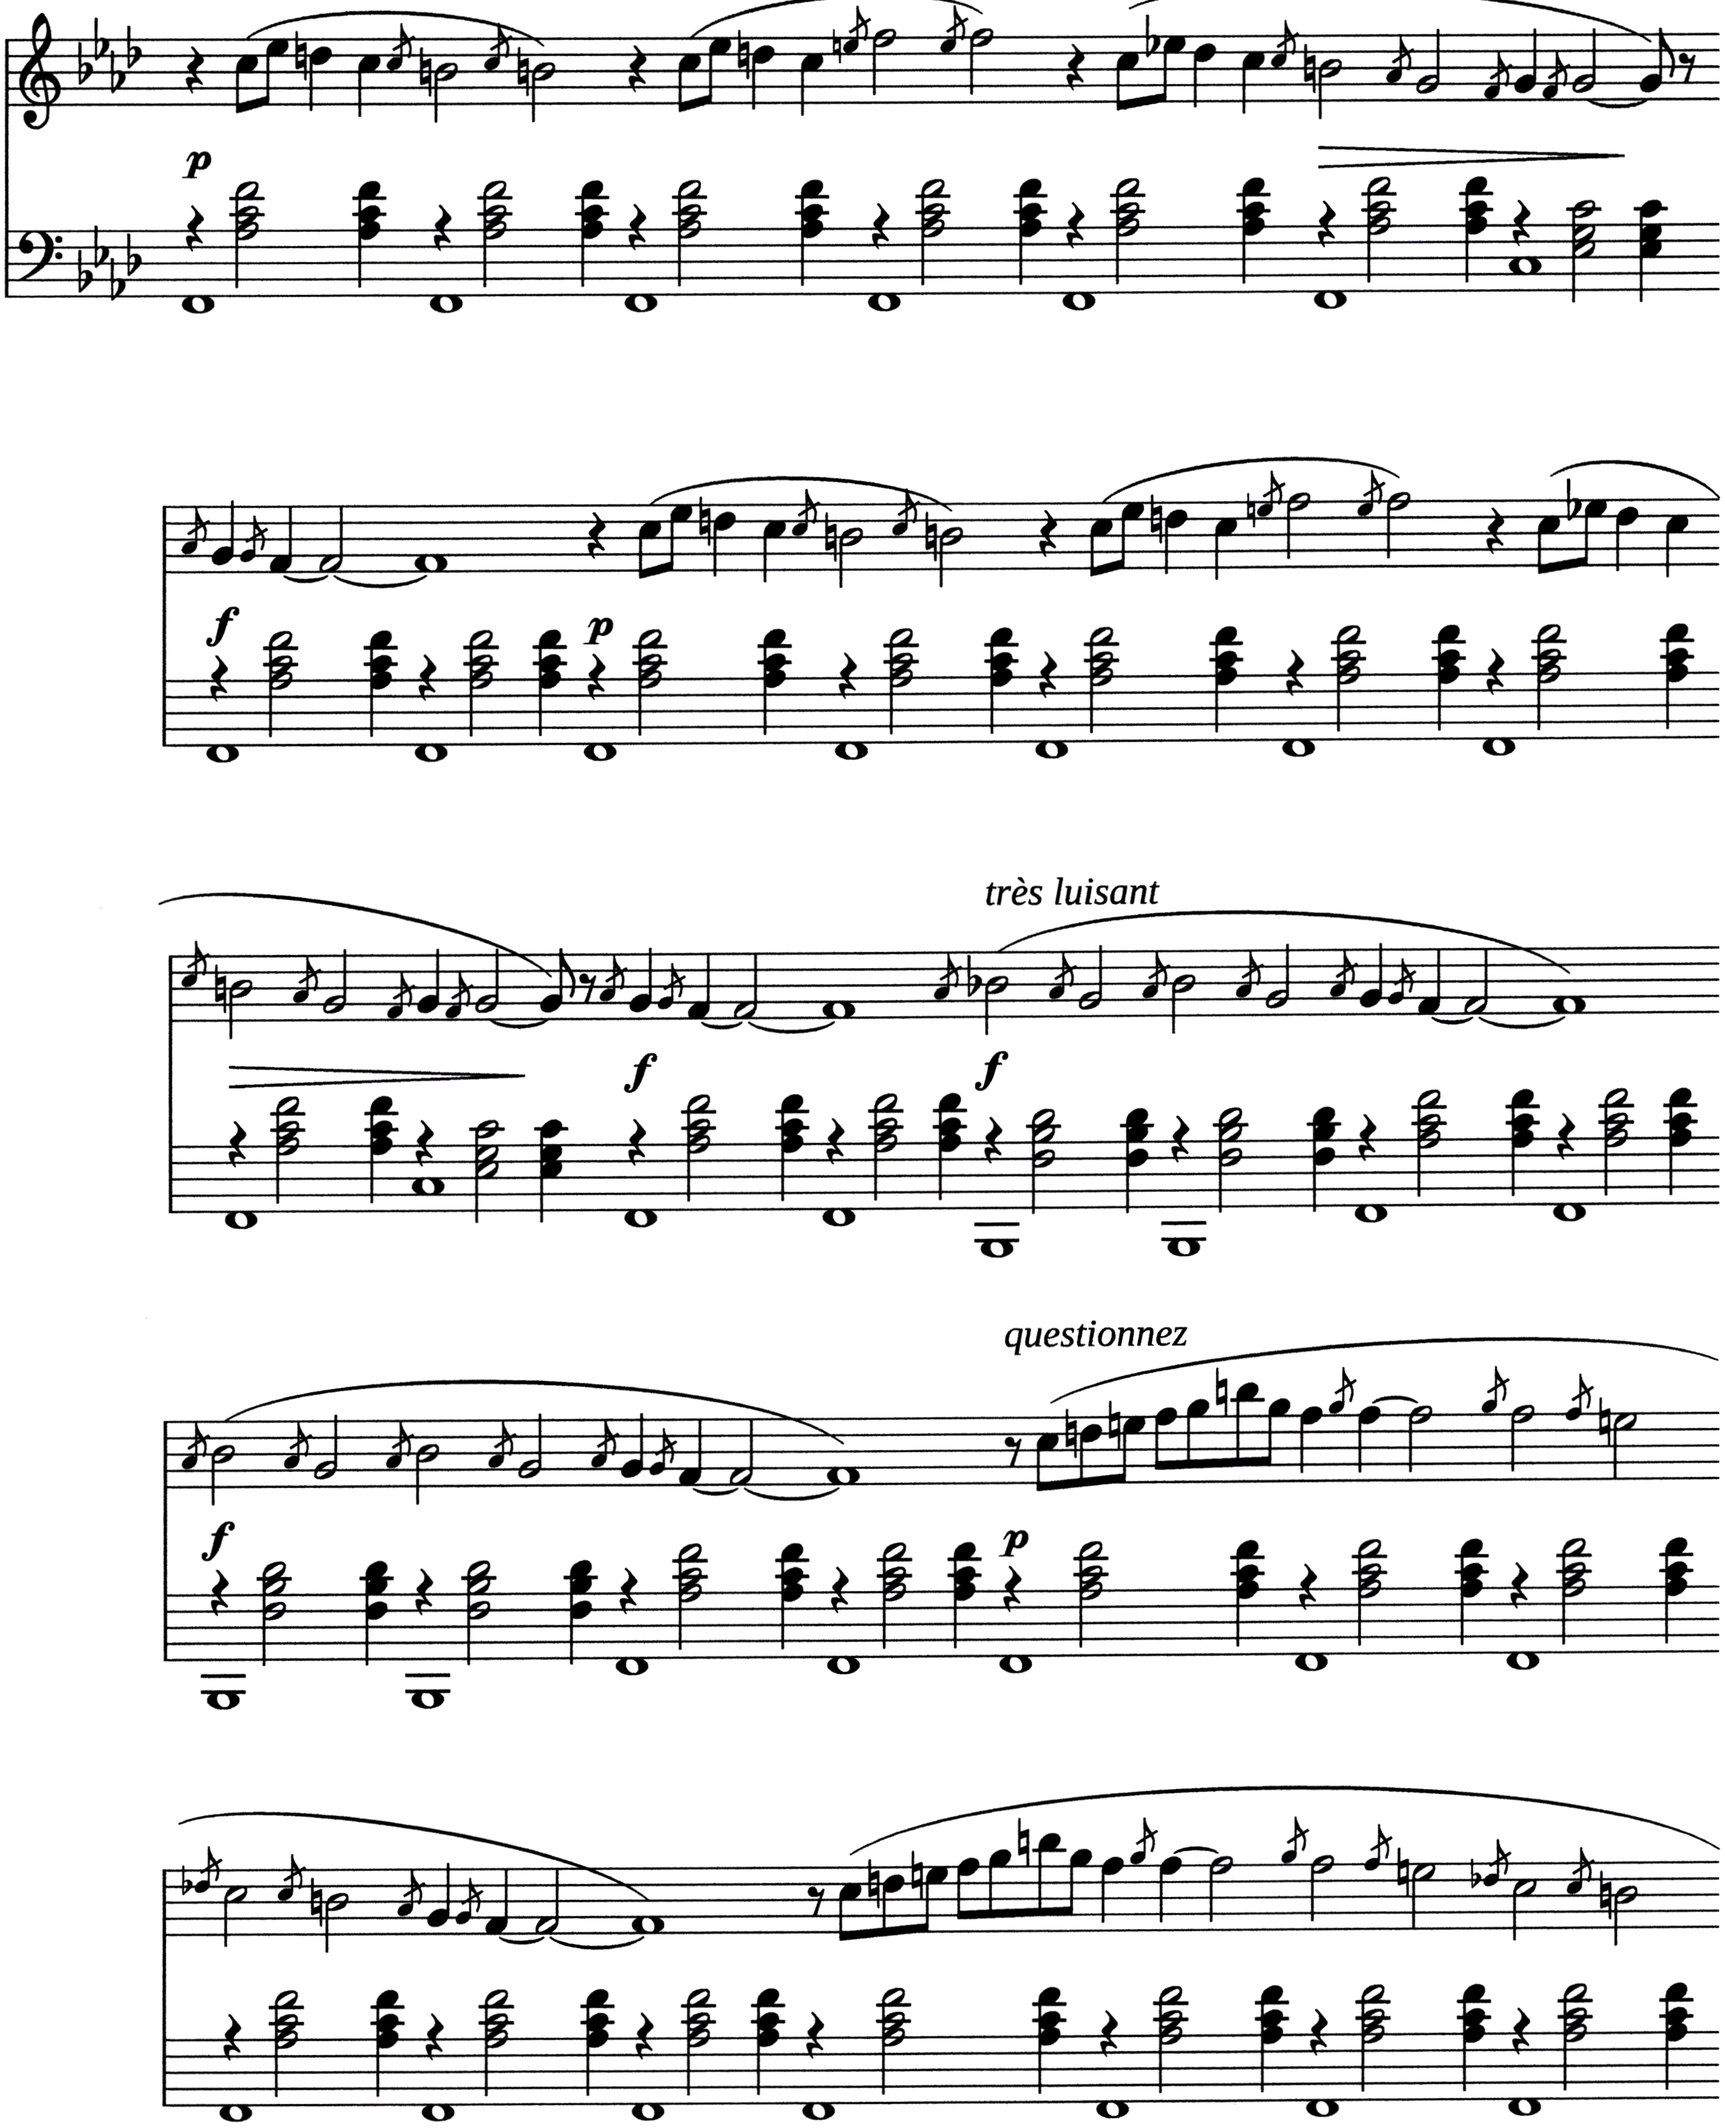
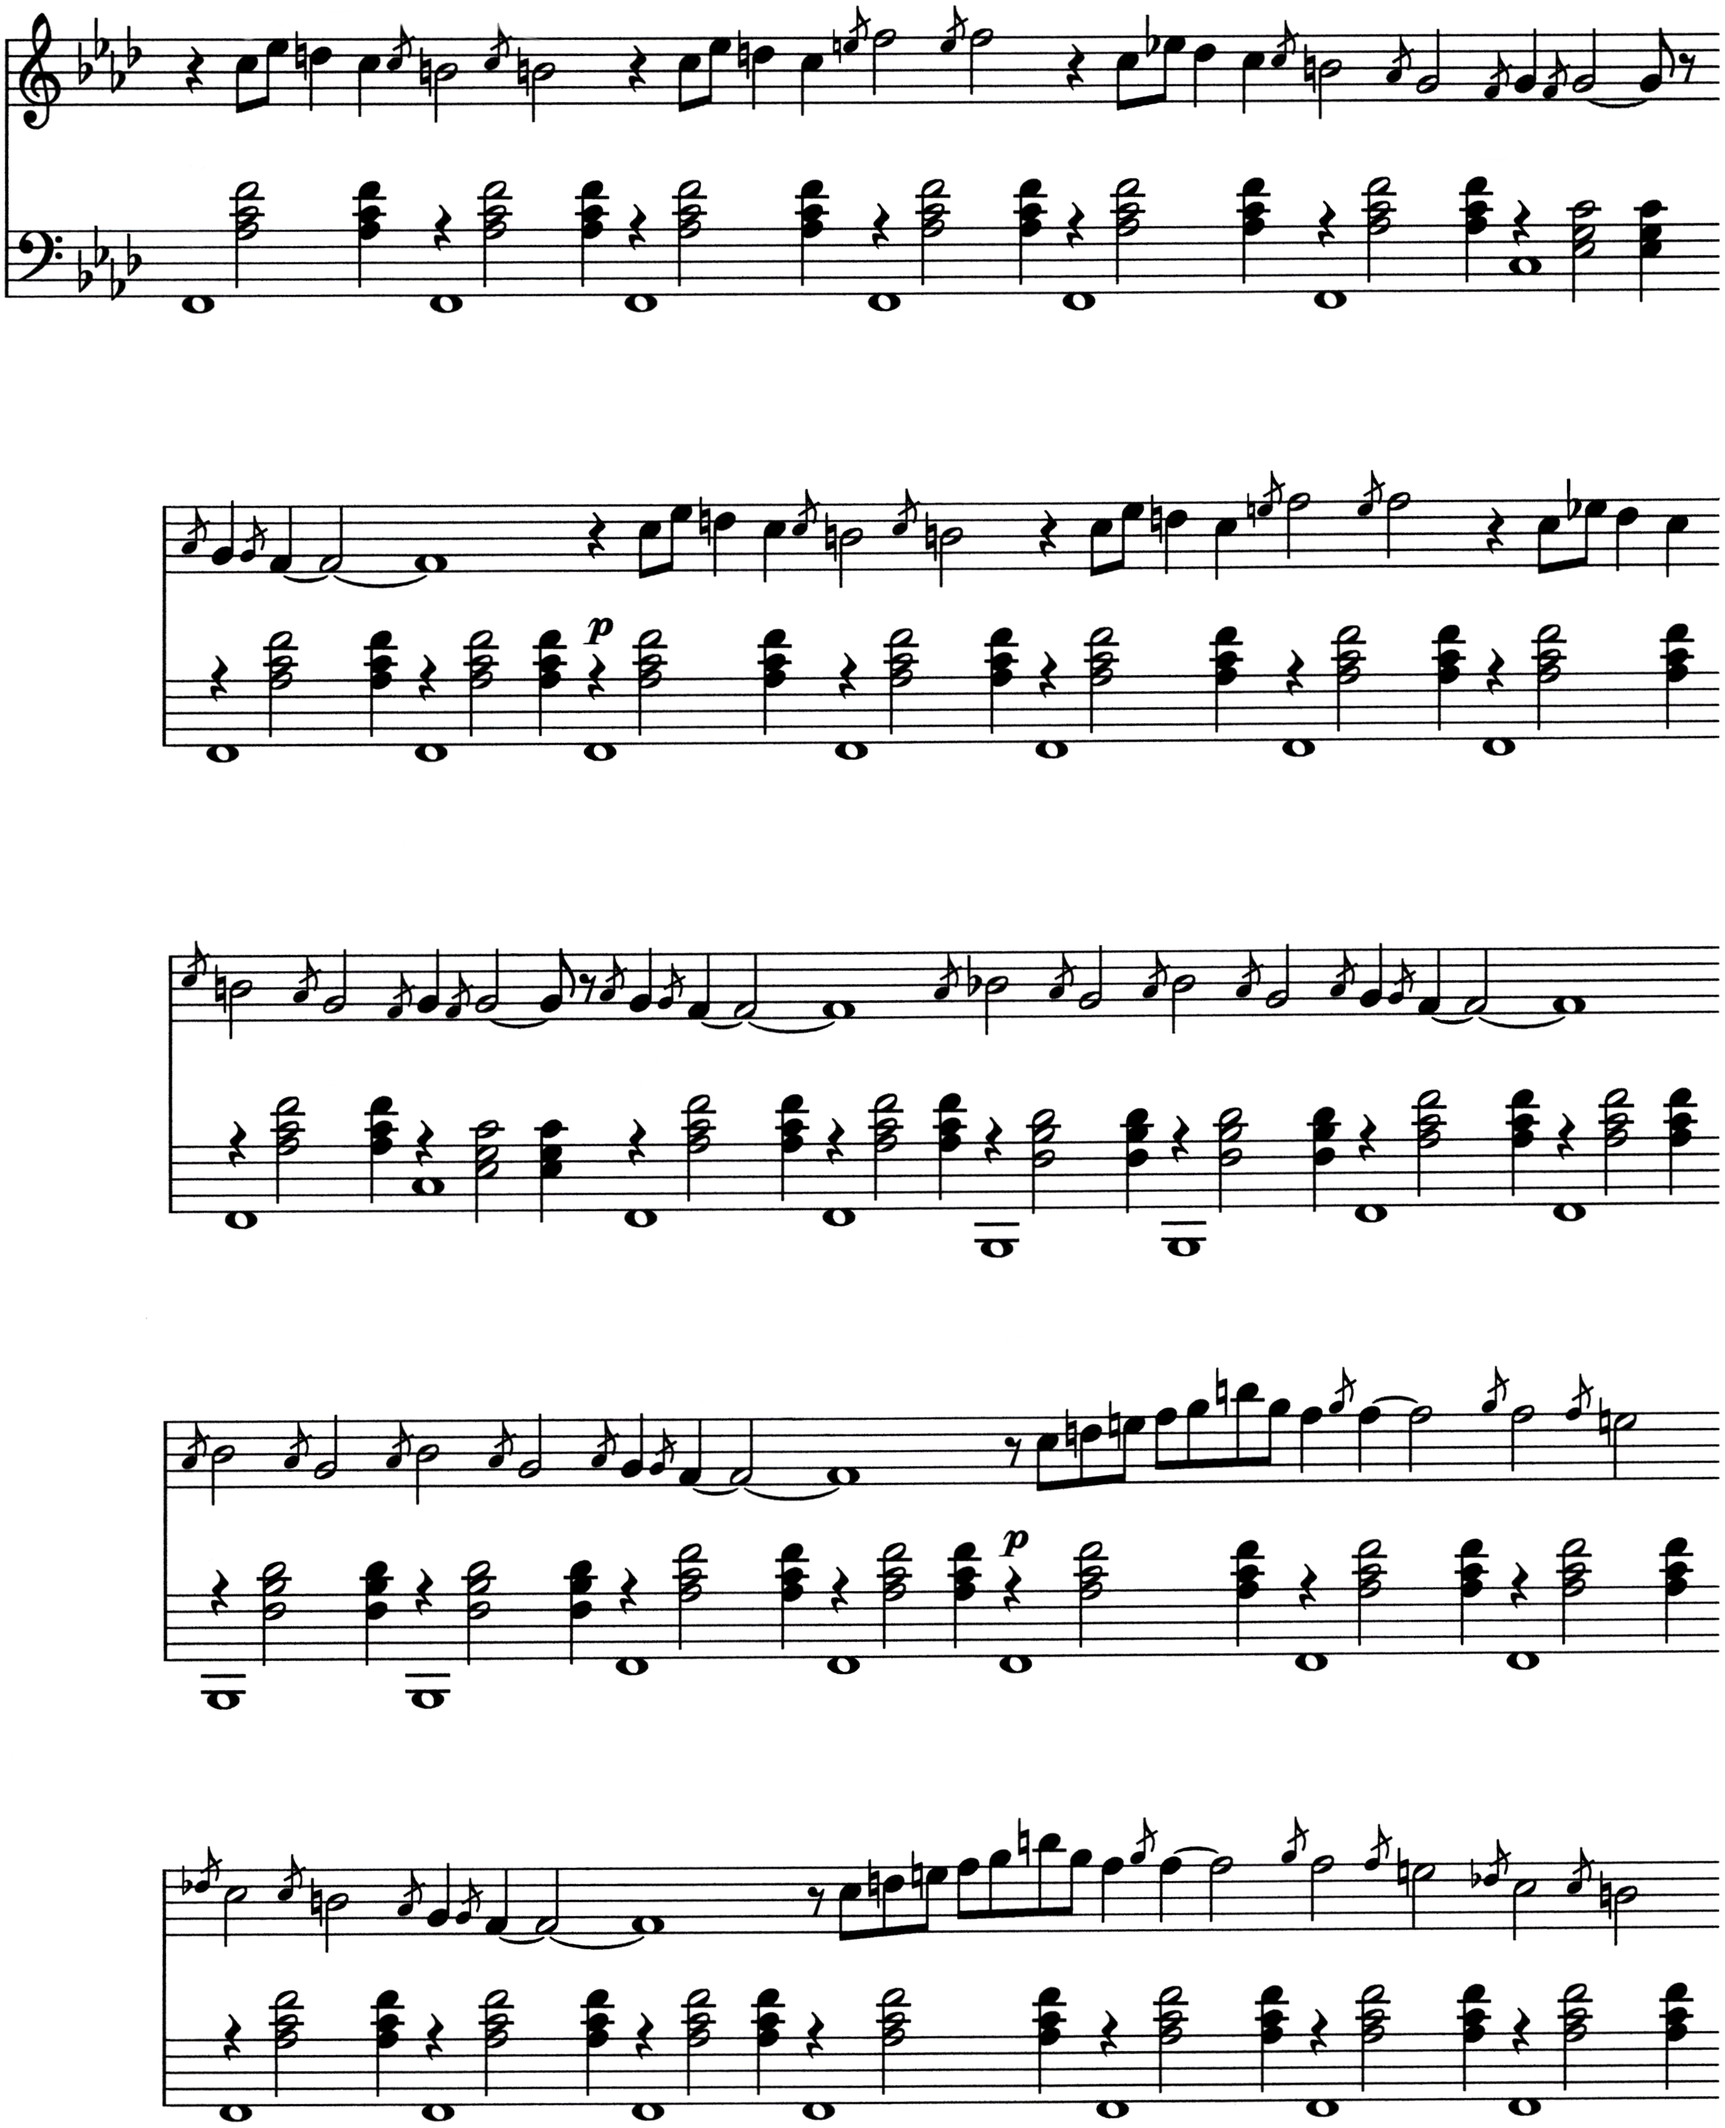
🚸 Satie Gnossienne Ⅰ: Busy simplifying sheet music.

diff --git a/satie-gnossienne-1/satie-gnossienne-1-studying-notes.md b/satie-gnossienne-1/satie-gnossienne-1-studying-notes.md
@@ -33,12 +33,13 @@ I told myself to do something with chords and improvising. I might make versions
 - [x] ~~Removing fingering numbers.~~ > Were none.
 - [x] Removing repeated key signatures.
 - [x] ~~Removing 'announcing' key signatures at ends of lines.~~ > Were none.
-- [ ] Removing expression symbols (and pedal symbols, tempo, words, dynamics).
-- [ ] Removing expression bows.
+- [x] Removing expression symbols (and pedal symbols, tempo, words, dynamics).
+- [ ] __Removing expression bows.__
 - [ ] Removing extension bows (and the repeated note).
 - [ ] Removing some rest symbols.
 - [x] Removing repeated clefs.
 - [x] ~~Removing 'announcing' clef change.~~ > Were none.
+- [ ] Adding measure bars if there are none.
 - [ ] Simplifying note durations / voicing notation.
 - [ ] Adding accidentals (even when part of key) (might take a few hours more).
 - [ ] Changing B# => C , Cb => B , E# => F , Fb => E.

diff --git a/methods/sheet-music-simplification.md b/methods/sheet-music-simplification.md
@@ -28,6 +28,7 @@ Sheet Music Simplification
 - Simplifying note durations / voicing notation.
 - Adding accidentals (even when part of key) (might take a few hours more).
 - Changing B# => C , Cb => B , E# => F , Fb => E.
+- Adding measure bars if there are none.
 - Adding title (adding the word 'simplified').
 - Adding page numbers (font not too small).
 - Notes small? Try rearranging measures.
